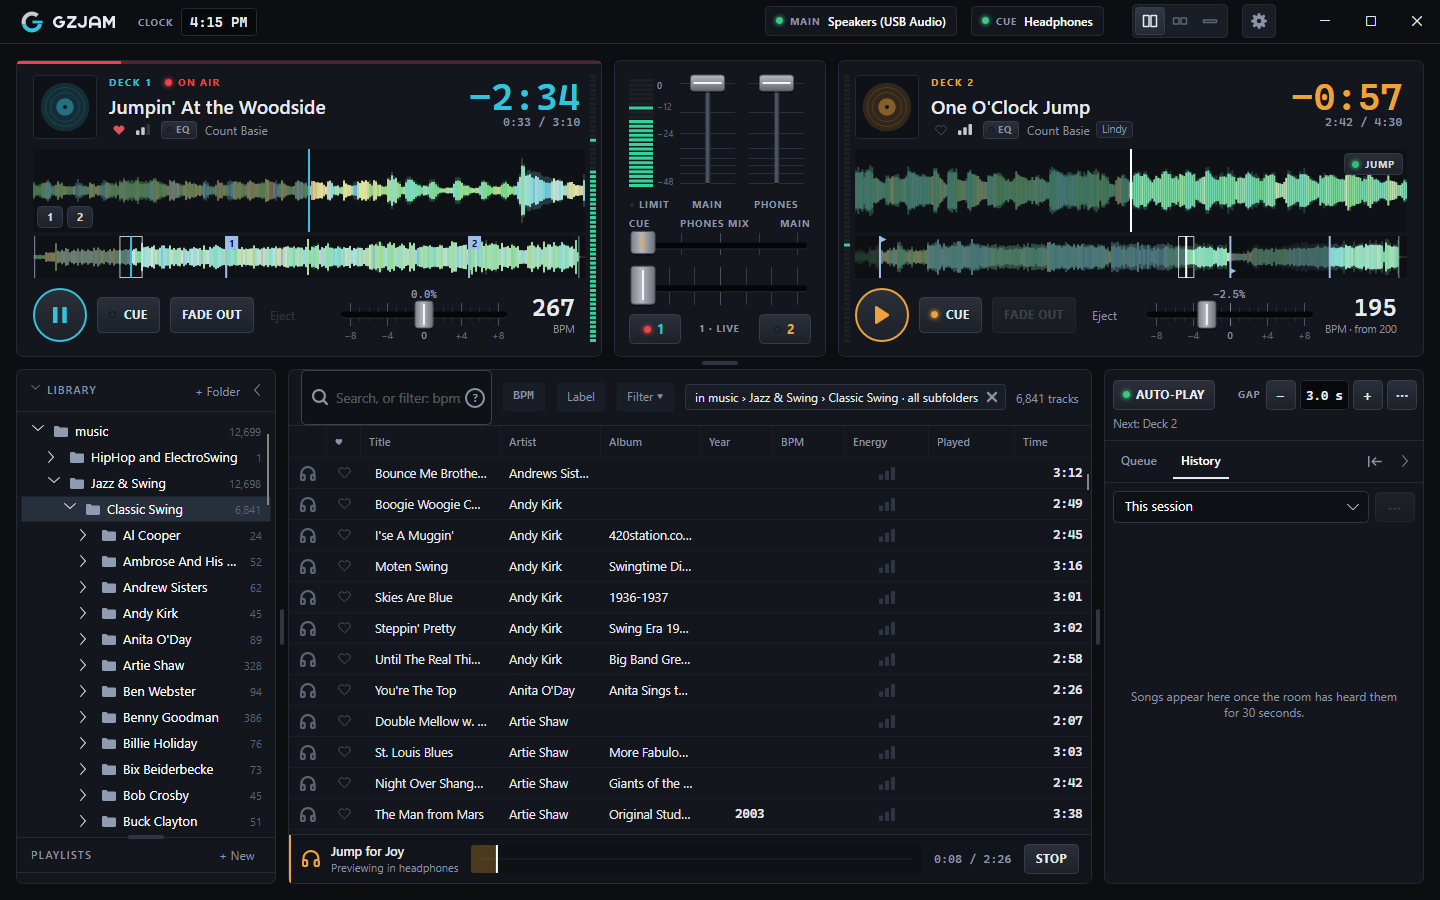
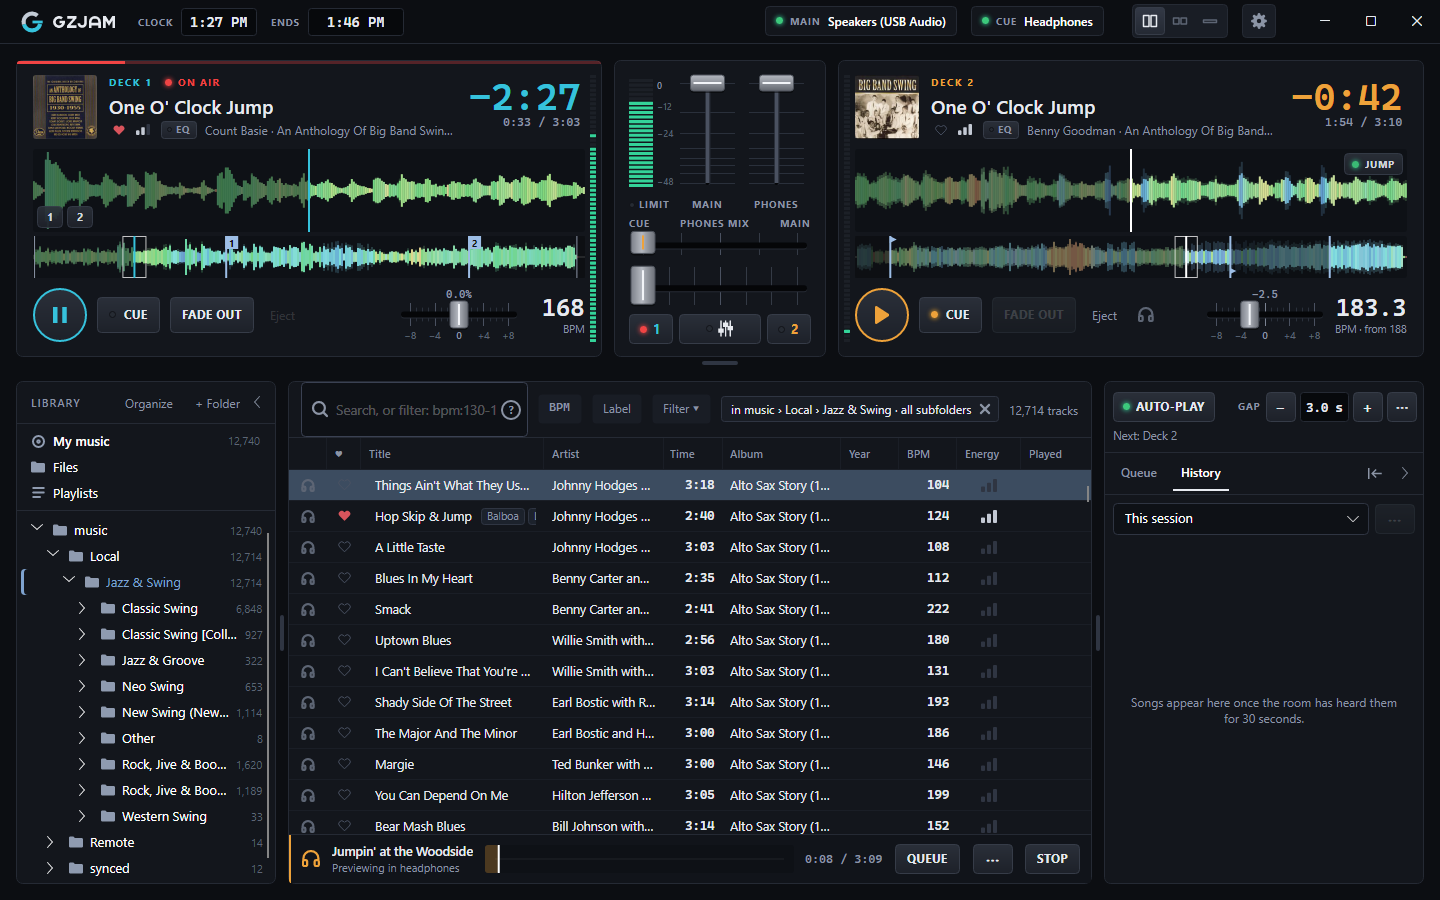
Screenshots as GZJam looks in 1.9 (#450) (#451)
The README and website picture, and the guide's three, retaken from
ScreenshotTests over C:\music. The README picture names its outputs again:
the room EQ part of the MAIN chip (#272) put text after the output's name,
so the test was renaming a hidden label and the chip read "Offline".

Fixes #450

diff --git a/tests/GZJam.App.Tests/ScreenshotTests.cs b/tests/GZJam.App.Tests/ScreenshotTests.cs
@@ -28,7 +28,9 @@ public sealed class ScreenshotTests
         var overridden = new List<TextBlock>();
         for (int i = 0; i < names.Length; i++)
         {
-            var name = chips[i].GetVisualDescendants().OfType<TextBlock>().Last();
+            // The output's name: the first text that isn't a label (MAIN, ROOM EQ) or a separator.
+            var name = chips[i].GetVisualDescendants().OfType<TextBlock>()
+                .First(t => !t.Classes.Contains("fader-label") && !t.Classes.Contains("muted"));
             name.SetValue(TextBlock.TextProperty, names[i], Avalonia.Data.BindingPriority.Animation);
             overridden.Add(name);
         }
